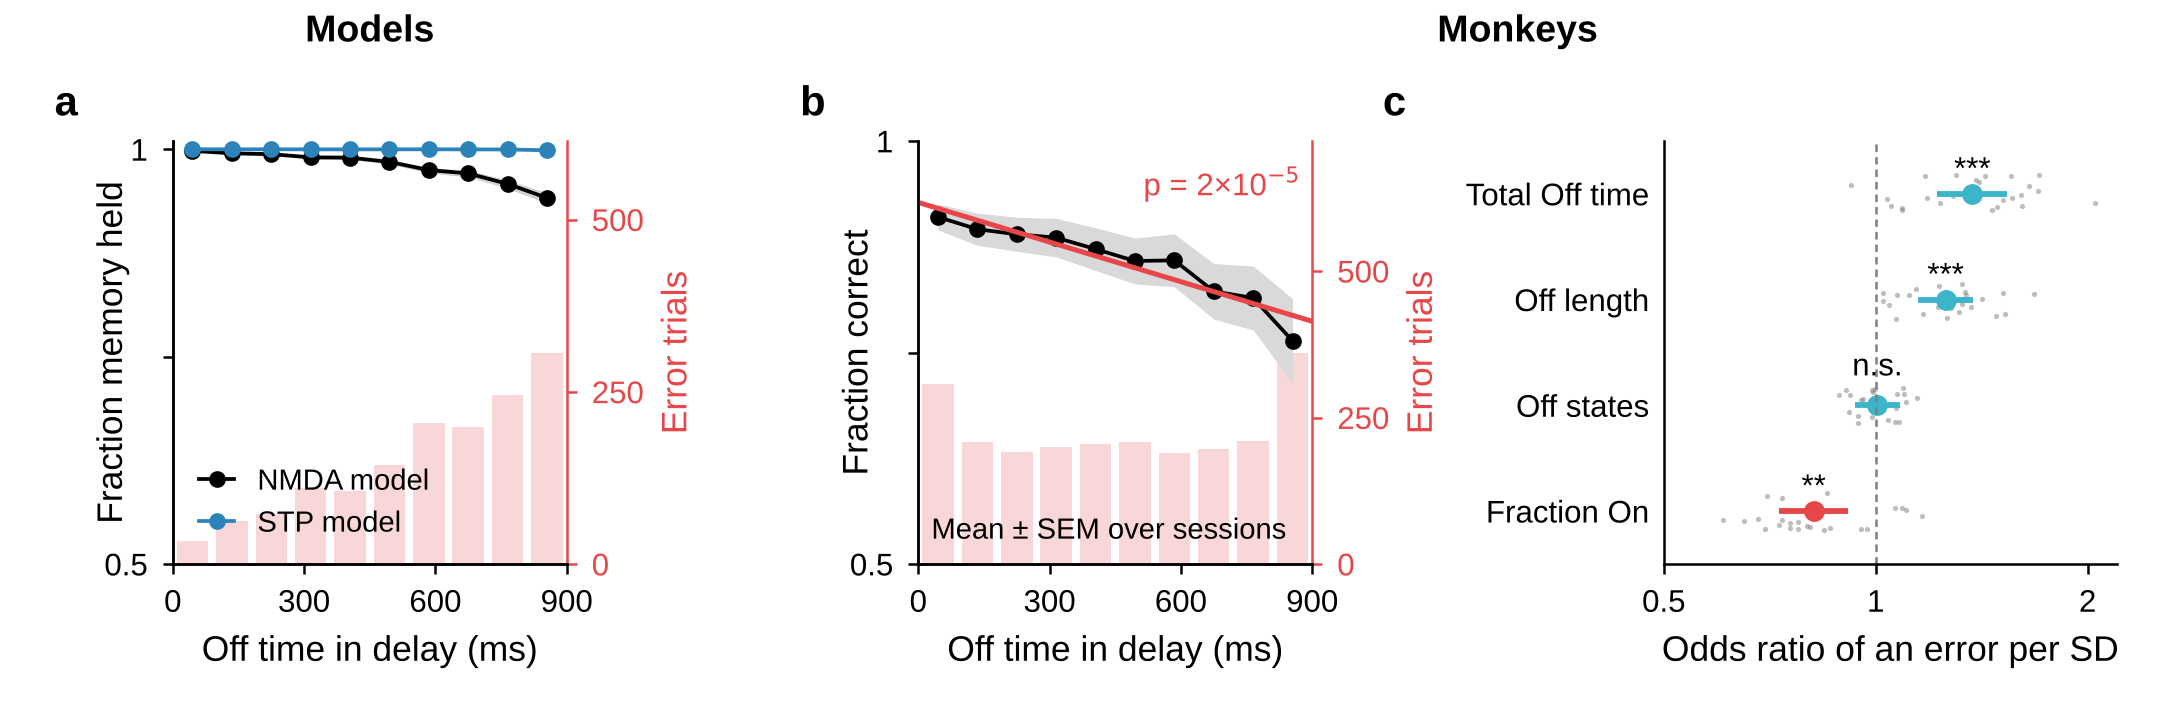
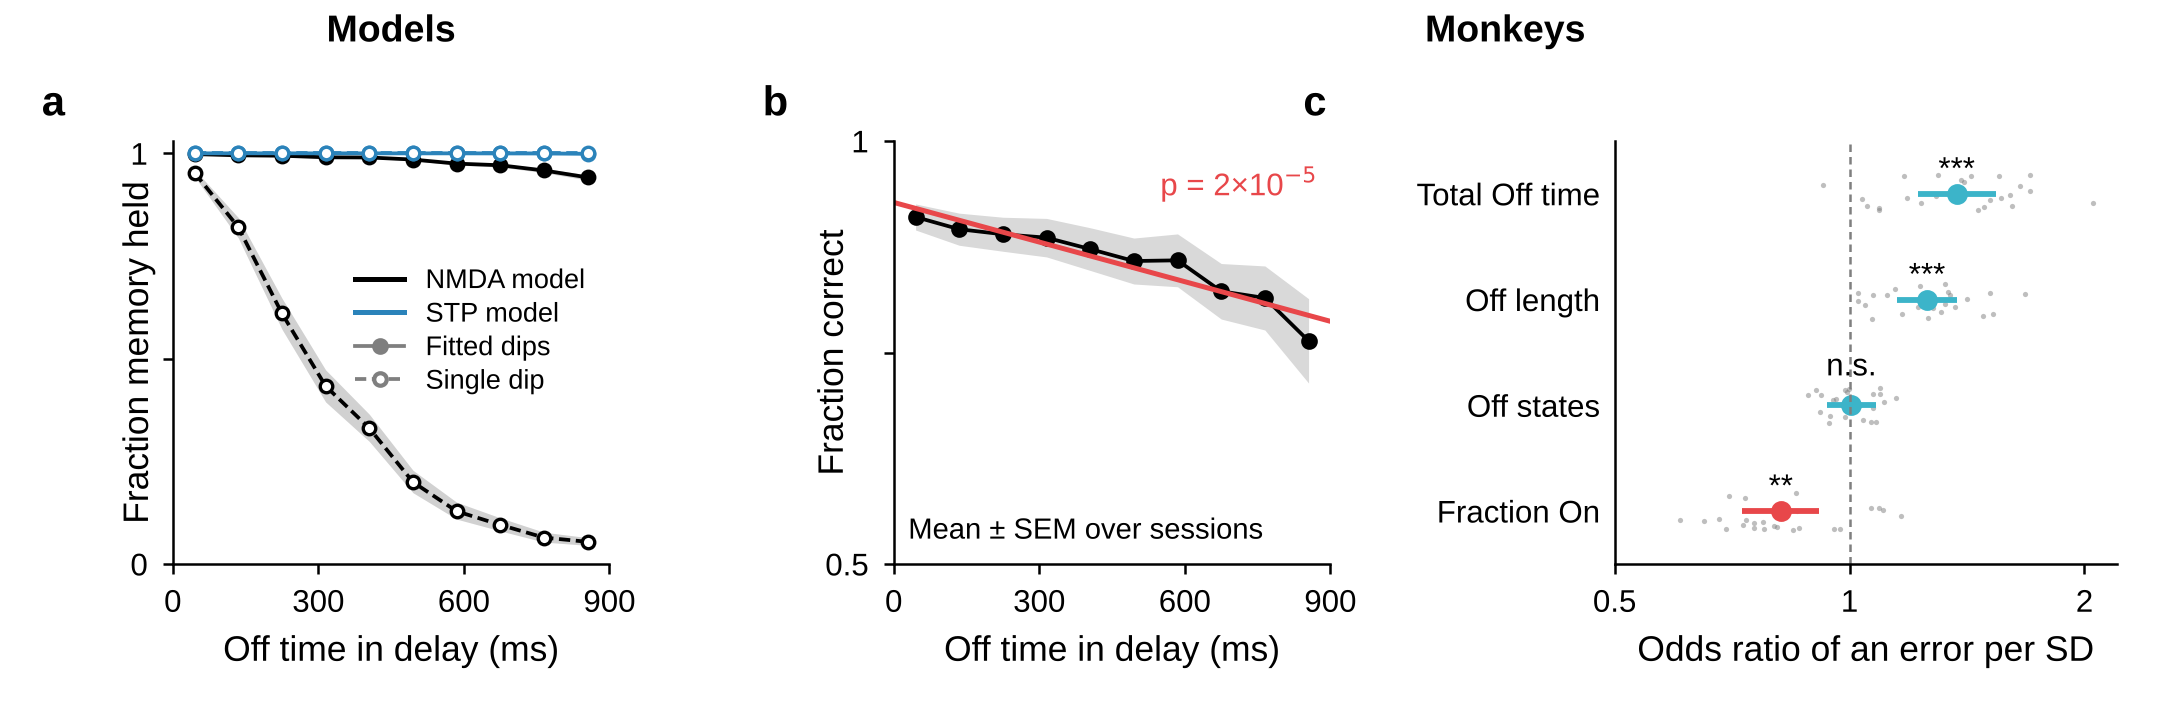
paper: Figure 3a shows both model simulations again (fitted dips solid, single dip dashed); histograms removed
Claude-Session: https://claude.ai/code/session_01Muxo6fVhqMZ2e3pmGJiRgd

diff --git a/paper/scripts/fig3_off_time.py b/paper/scripts/fig3_off_time.py
@@ -2,17 +2,17 @@
 
 Off time = fraction of the 91 delay time points (500-1,400 ms after cue onset, 10 ms apart) labelled Off x 900 ms,
 for the data and for the models alike.
-a, memory held against Off time in the NMDA and STP model, each with its own fitted dips (100,000 trials per model;
-   10 bins of 0.1 of the delay, 95% Wilson intervals); bars: number of NMDA-model trials with the memory lost
-   in each bin (right axis).
+a, memory held against Off time in the NMDA and STP model (10 bins of 0.1 of the delay, 95% Wilson intervals),
+   with their own fitted dips (solid, 100,000 trials per model) and in the single-dip test (dashed, one dip of
+   0-1 s per trial, 12,300 trials per model).
 b, fraction correct against Off time (session mean +- SEM in the same bins), with the linear regression of each
-   session's fraction correct on bin centre (red); bars: number of error trials in each bin (right axis).
+   session's fraction correct on bin centre (red).
 c, odds ratio of an error per within-session SD of each On/Off statistic (logistic GLMM fixed effect, 95% CI),
    with each session's weight as grey dots; stars from the likelihood-ratio p.
 
-usage: python fig3_off_time.py <behaviour_handoff/data> <off_vs_memory dir with {nmda,fac}/natural_readout_trials.npz> <out.png>
+usage: python fig3_off_time.py <behaviour_handoff/data> <off_vs_memory dir with {nmda,fac}/{natural,single_dip}_readout_trials.npz> <out.png>
 data: jmourabarbosa/panichello, branch analysis-replication, analysis/behaviour_handoff/data
-models: figures/off_vs_memory on branch paper-model (paper_model/natural_readout.py)
+models: figures/off_vs_memory on branch paper-model (paper_model/natural_readout.py, paper_model/single_dip_readout.py)
 """
 import sys
 
@@ -63,33 +63,17 @@ def off_axis(ax, ylabel=None):
         ax.set_ylabel(ylabel)
 
 
-def error_bars(ax, frac, err, label):
-    """Number of error (or memory-lost) trials in each Off-time bin, as bars on a right-hand axis."""
-    i = np.digitize(frac[err], EDGES) - 1
-    h = np.bincount(i, minlength=len(CENT))[:len(CENT)]
-    tw = ax.twinx()
-    tw.bar(W * CENT, h, width=0.8 * W * 0.1, color=C_ON, alpha=0.22, lw=0)
-    top = 2 * h.max()   # bars fill the lower half of the panel
-    tw.set_ylim(0, top)
-    tw.yaxis.set_major_locator(matplotlib.ticker.MaxNLocator(3, integer=True))
-    tw.spines['right'].set_visible(True)
-    tw.set_ylabel(label, color=C_ON)
-    tw.tick_params(axis='y', colors=C_ON)
-    tw.spines['right'].set_color(C_ON)
-    ax.set_zorder(tw.get_zorder() + 1); ax.patch.set_visible(False)
-    return h
-
-
 glmm = pd.read_csv(f'{DATA}/joint_glmm.csv')
 sw = pd.read_csv(f'{DATA}/joint_glmm_session_weights.csv')
 trials = pd.read_csv(f'{DATA}/per_trial_correct_and_error.csv')
 model = {}
-for v in ('nmda', 'fac'):
-    d = np.load(f'{MODELS}/{v}/natural_readout_trials.npz')
-    model[v] = (np.round(d['off_time_s'] / 0.01) / NPT, d['memory_held'].astype(bool))
+for sim in ('natural', 'single_dip'):
+    for v in ('nmda', 'fac'):
+        d = np.load(f'{MODELS}/{v}/{sim}_readout_trials.npz')
+        model[sim, v] = (np.round(d['off_time_s'] / 0.01) / NPT, d['memory_held'].astype(bool))
 
 fig = plt.figure(figsize=(7.2, 2.35))
-gs = fig.add_gridspec(1, 3, width_ratios=[1, 1, 1.15], wspace=0.85, left=0.08, right=0.98, top=0.8, bottom=0.2)
+gs = fig.add_gridspec(1, 3, width_ratios=[1, 1, 1.15], wspace=0.62, left=0.08, right=0.98, top=0.8, bottom=0.2)
 ma, a, b = (fig.add_subplot(gs[0, j]) for j in range(3))   # ma: models; a, b: monkeys
 for axs, txt in (((ma, ma), 'Models'), ((a, b), 'Monkeys')):
     x = (axs[0].get_position().x0 + axs[1].get_position().x1) / 2
@@ -113,7 +97,6 @@ off_axis(a, 'Fraction correct')
 a.set_ylim(0.5, 1); a.set_yticks([0.5, 0.75, 1], ['0.5', '', '1'])
 a.yaxis.labelpad = -6
 a.text(30, 0.53, 'Mean ± SEM over sessions', fontsize=7)
-herr = error_bars(a, trials.frac_off.values, ~trials.correct.values.astype(bool), 'Error trials')
 letter(a, 'b')
 
 # c: odds ratio of an error per SD of each statistic
@@ -136,30 +119,34 @@ b.tick_params(axis='y', length=0)
 b.set_xlabel('Odds ratio of an error per SD')
 letter(b, 'c', x=-0.62)
 
-# a: memory held against Off time in the two models, each with its own fitted dips
-for v, name, col in (('nmda', 'NMDA model', INK), ('fac', 'STP model', C_STP)):
-    frac, held = model[v]
-    i = np.digitize(frac, EDGES) - 1
-    k = np.array([held[i == j].sum() for j in range(len(CENT))])
-    m = np.array([(i == j).sum() for j in range(len(CENT))])
-    lo, hi = wilson(k, m)
-    ma.fill_between(W * CENT, lo, hi, color=col, alpha=0.18, lw=0)
-    ma.plot(W * CENT, k / m, 'o-', color=col, ms=3, label=name)
+# a: memory held against Off time in the two models, fitted dips (solid) and single-dip test (dashed)
+for sim, ls, mk in (('natural', '-', 'o'), ('single_dip', (0, (3, 1.5)), 'o')):
+    for v, col in (('nmda', INK), ('fac', C_STP)):
+        frac, held = model[sim, v]
+        i = np.digitize(frac, EDGES) - 1
+        k = np.array([held[i == j].sum() for j in range(len(CENT))])
+        m = np.array([(i == j).sum() for j in range(len(CENT))])
+        lo, hi = wilson(k, m)
+        ma.fill_between(W * CENT, lo, hi, color=col, alpha=0.18, lw=0)
+        ma.plot(W * CENT, k / m, ls=ls, marker=mk, color=col, ms=3, mfc=col if sim == 'natural' else 'white', mew=0.8)
 off_axis(ma, 'Fraction memory held')
-ma.set_ylim(0.5, 1.01); ma.set_yticks([0.5, 0.75, 1], ['0.5', '', '1'])
+ma.set_ylim(0, 1.03); ma.set_yticks([0, 0.5, 1], ['0', '', '1'])
 ma.yaxis.labelpad = -6
-ma.legend(loc='lower left', handlelength=1.2, fontsize=7, frameon=False)
-frac, held = model['nmda']
-hlost = error_bars(ma, frac, ~held, 'Error trials')
+from matplotlib.lines import Line2D  # noqa: E402
+handles = [Line2D([], [], color=INK, lw=1.2, label='NMDA model'), Line2D([], [], color=C_STP, lw=1.2, label='STP model'),
+           Line2D([], [], color=GREY, ls='-', marker='o', ms=3, label='Fitted dips'),
+           Line2D([], [], color=GREY, ls=(0, (3, 1.5)), marker='o', ms=3, mfc='white', label='Single dip')]
+ma.legend(handles=handles, loc='center right', bbox_to_anchor=(1.0, 0.55), handlelength=1.8, fontsize=6.5, frameon=False, labelspacing=0.3)
 letter(ma, 'a')
 
 fig.savefig(OUT, dpi=300)
 fig.savefig(OUT.replace('.png', '.svg'))
-print('error trials per bin:', herr.tolist(), 'NMDA lost trials per bin:', hlost.tolist())
 print('fraction correct by bin:', np.round(mu, 3).tolist(), 'sessions per bin:', n.tolist())
 print('regression: slope per 100 ms', 100 * reg.slope, 'p', reg.pvalue, 'n', ok.sum())
-for v in ('nmda', 'fac'):
-    frac, held = model[v]
-    i = np.digitize(frac, EDGES) - 1
-    print(v, 'held', held.mean(), 'by bin:', [round(held[i == j].mean(), 4) for j in range(len(CENT))],
-          'mean Off held/lost (ms):', W * frac[held].mean(), W * frac[~held].mean() if (~held).any() else None)
+for sim in ('natural', 'single_dip'):
+    for v in ('nmda', 'fac'):
+        frac, held = model[sim, v]
+        i = np.digitize(frac, EDGES) - 1
+        print(sim, v, 'held', held.mean(), 'by bin:', [round(held[i == j].mean(), 3) for j in range(len(CENT))],
+              'n by bin:', [int((i == j).sum()) for j in range(len(CENT))],
+              'mean Off held/lost (ms):', W * frac[held].mean(), W * frac[~held].mean() if (~held).any() else None)
